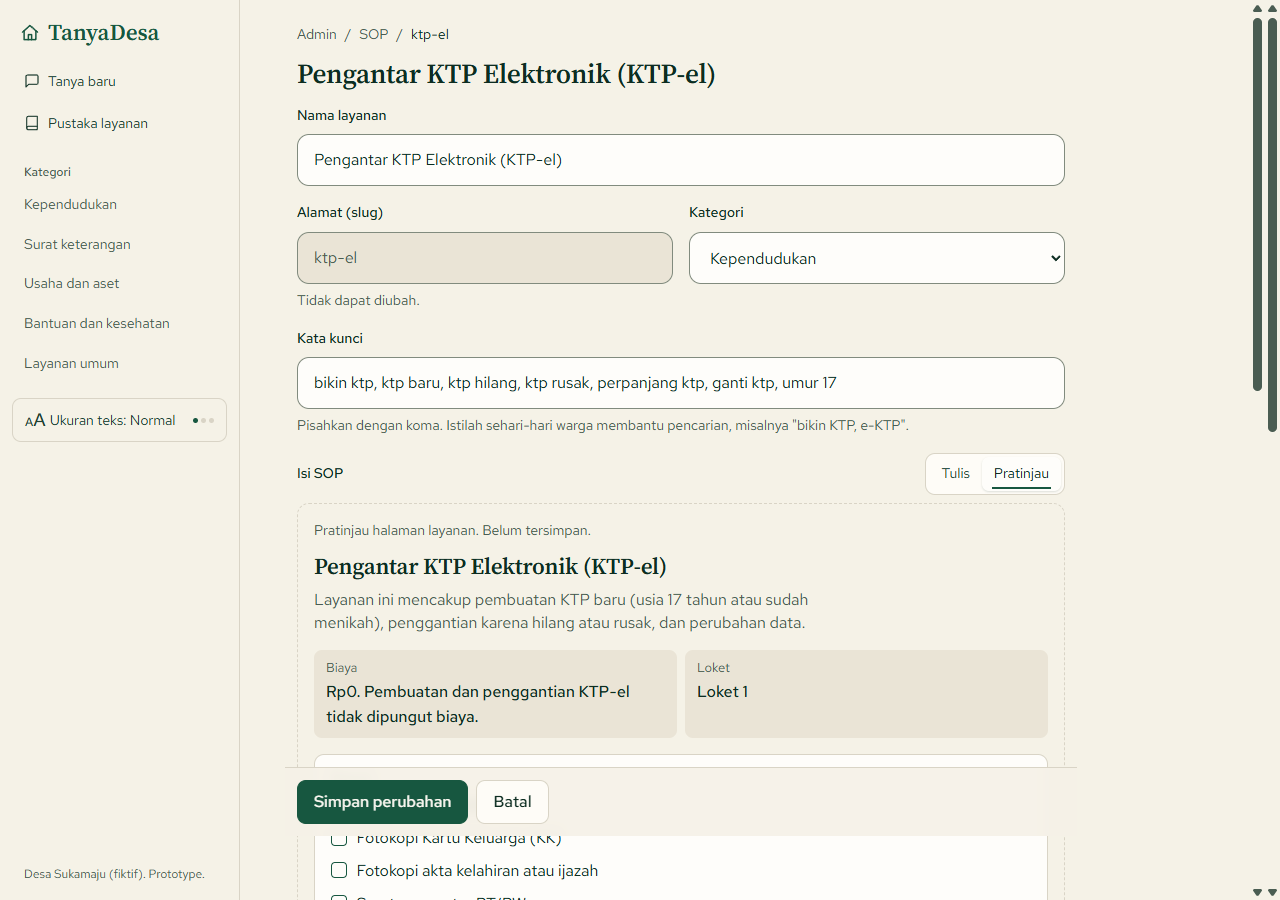
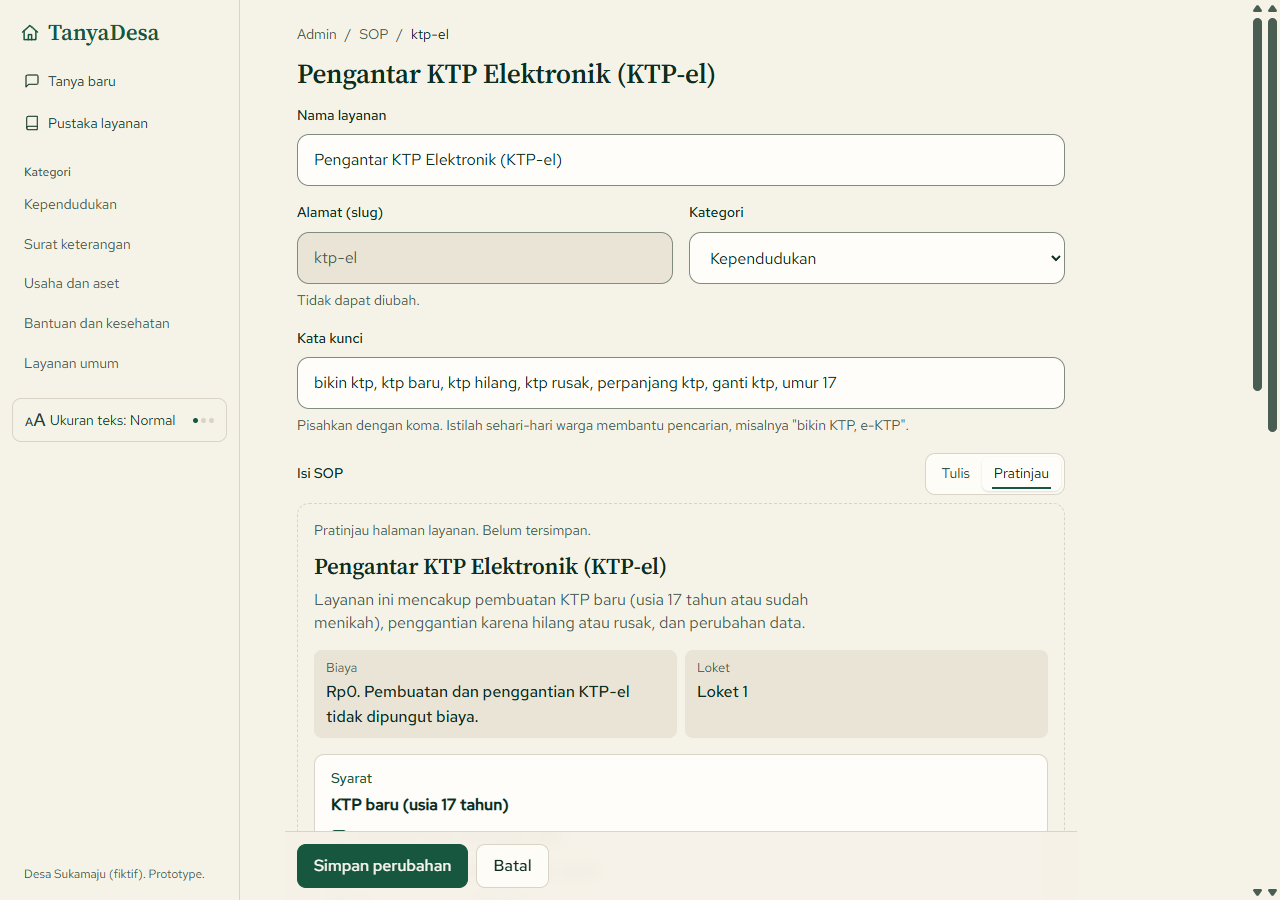
Pin the SOP editor save bar to the bottom edge and refresh its screenshot
The page's 64px bottom padding was counted by position: sticky, leaving the bar floating above the edge.

Changed region(s): [[0.2188, 0.84, 0.4688, 1.0]]

diff --git a/app/globals.css b/app/globals.css
@@ -1123,7 +1123,8 @@
 }
 .sopform__bar {
   position: sticky;
-  bottom: 0;
+  /* .page punya padding bawah var(--space-2xl) dan sticky mengukur dari tepi isinya; batalkan agar bilah menempel di dasar layar */
+  bottom: calc(var(--space-2xl) * -1);
   z-index: 5;
   display: flex;
   align-items: center;
